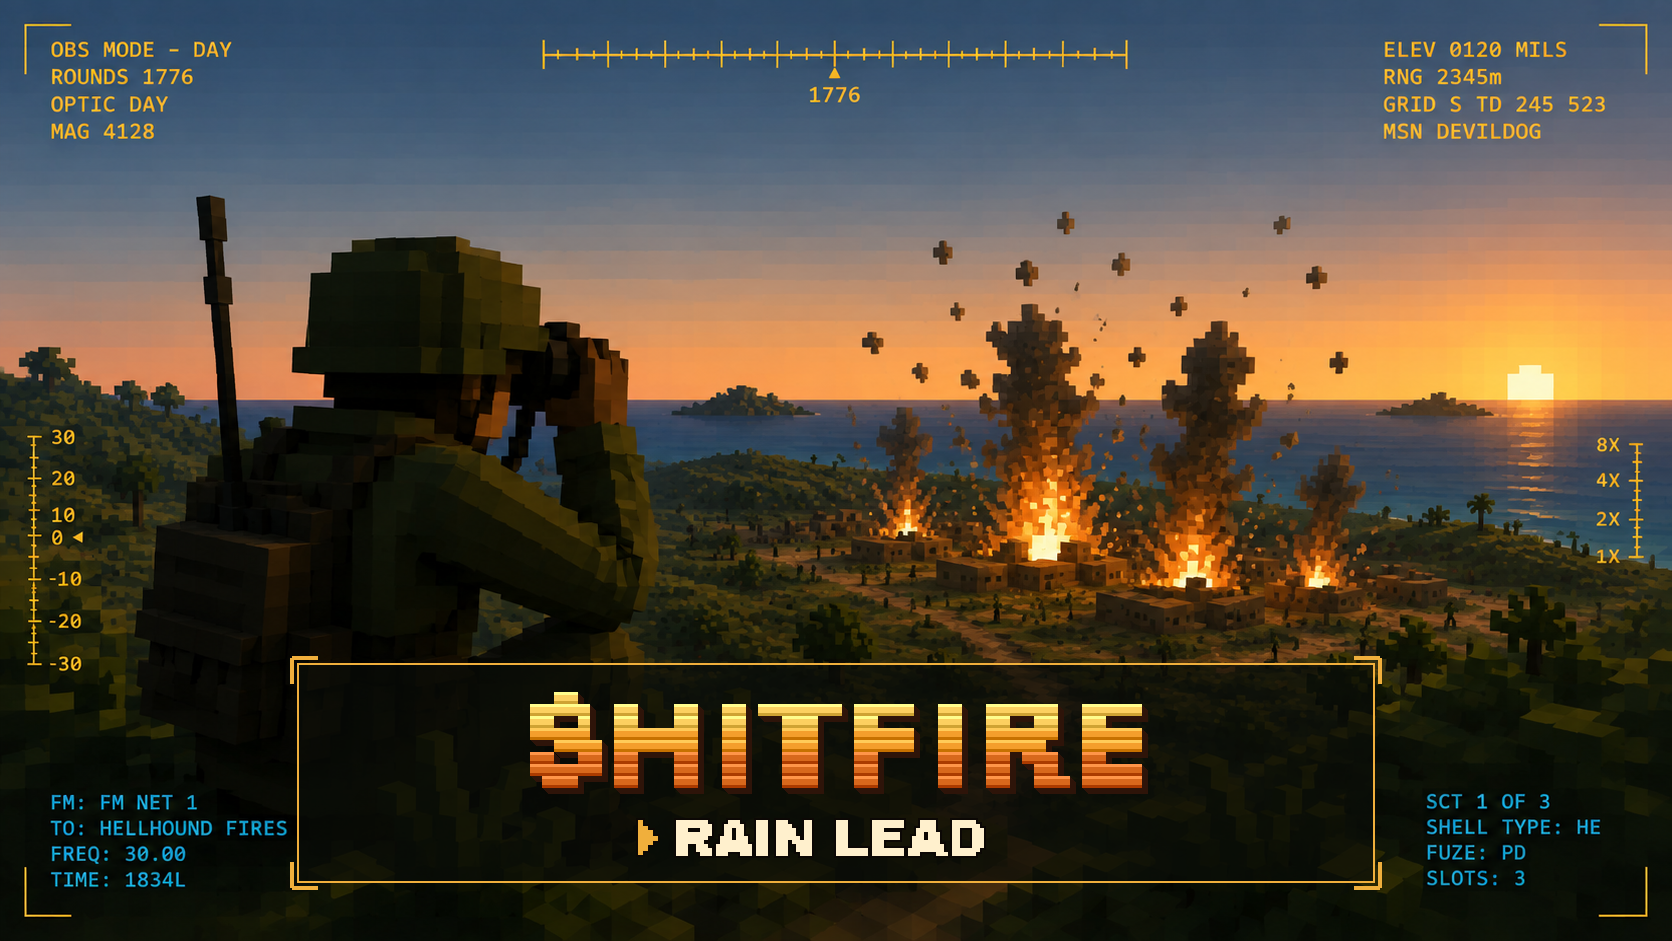
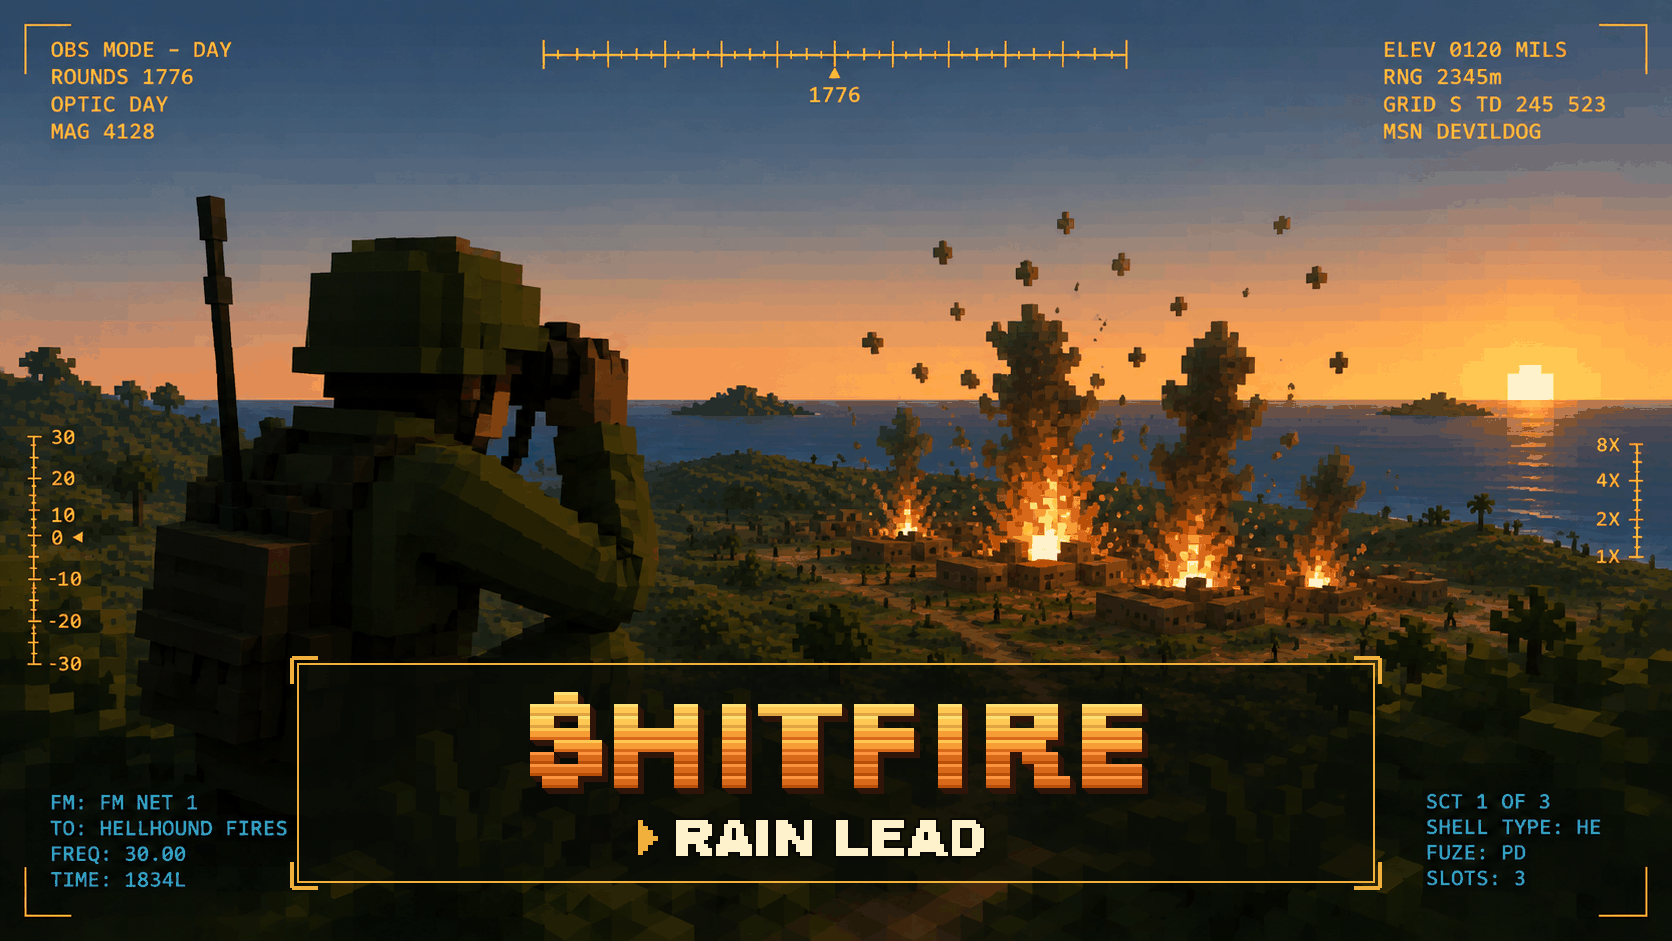
docs: cover as README hero image; quantize cover.png under 1 MB
256-color palette + dithering (Pillow) takes the cover from 2.28 MB to
430 KB with no visible loss on the voxel art - now valid for GitHub's
1 MB social-preview upload limit too.

diff --git a/README.md b/README.md
@@ -1,5 +1,9 @@
 # SHITFIRE
 
+<p align="center">
+  <img src="docs/screenshots/cover.png" width="100%" alt="SHITFIRE — RAIN LEAD. A forward observer on a ridge glasses a burning objective at sunset." />
+</p>
+
 **A single-file browser trainer for the FORWARD OBSERVER.** You sit on an OP over a low-poly WW2 Pacific island, locate a target with binos, laser, map, and compass, key the net, and talk a (rule-based, deeply unimpressed) fire direction center onto it: *observe → locate → transmit → observe impact → correct → fire for effect → assess*. The gun crew is a black box. You are the eyes.
 
 - **Observer:** MUSTANG 12 (you) · **FDC:** HELLHOUND FIRES (sardonic, doctrinally flawless)
